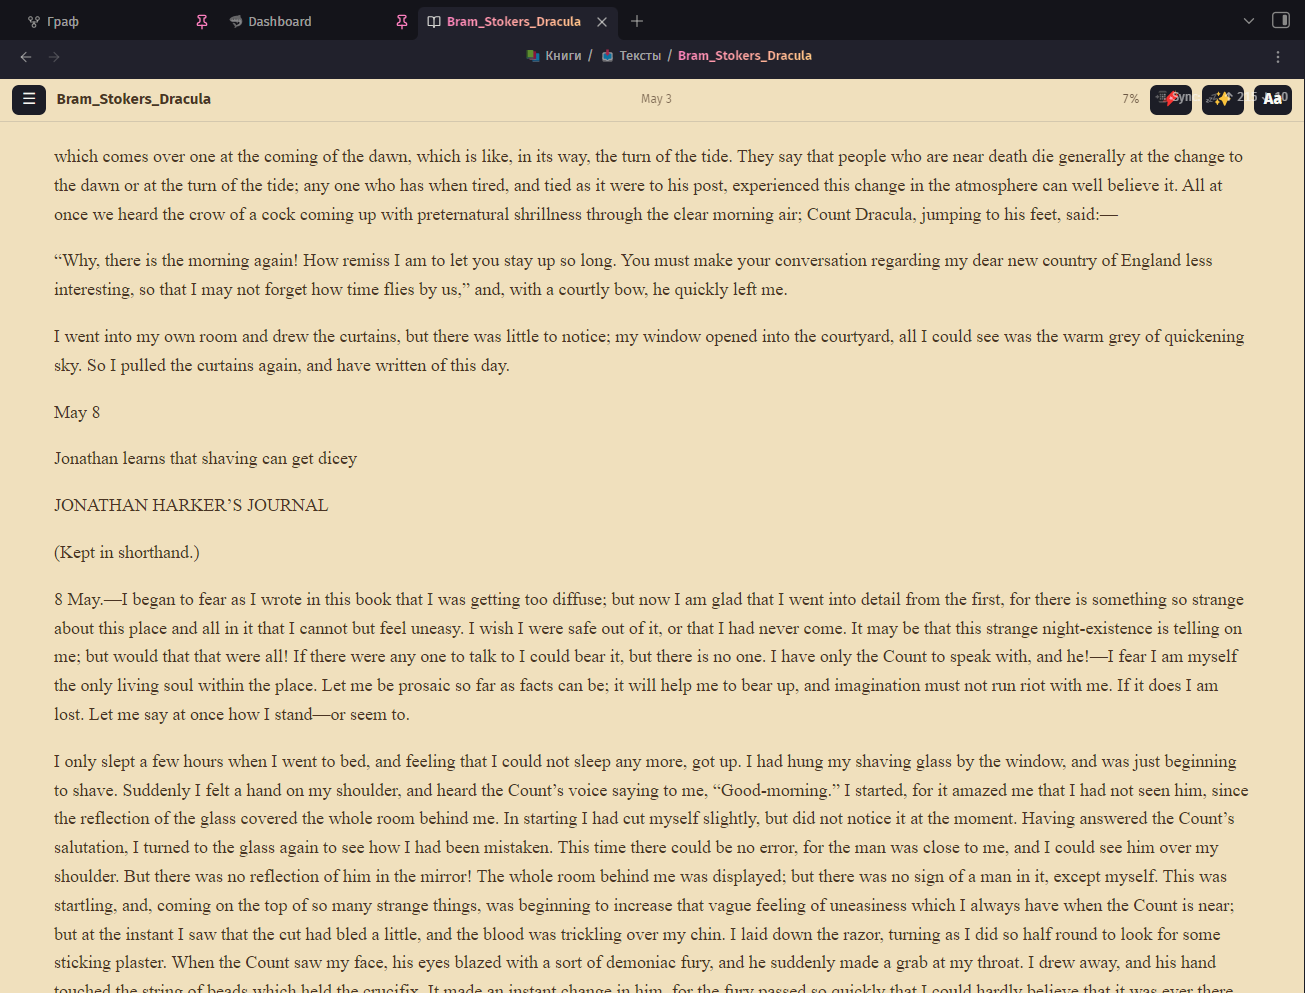
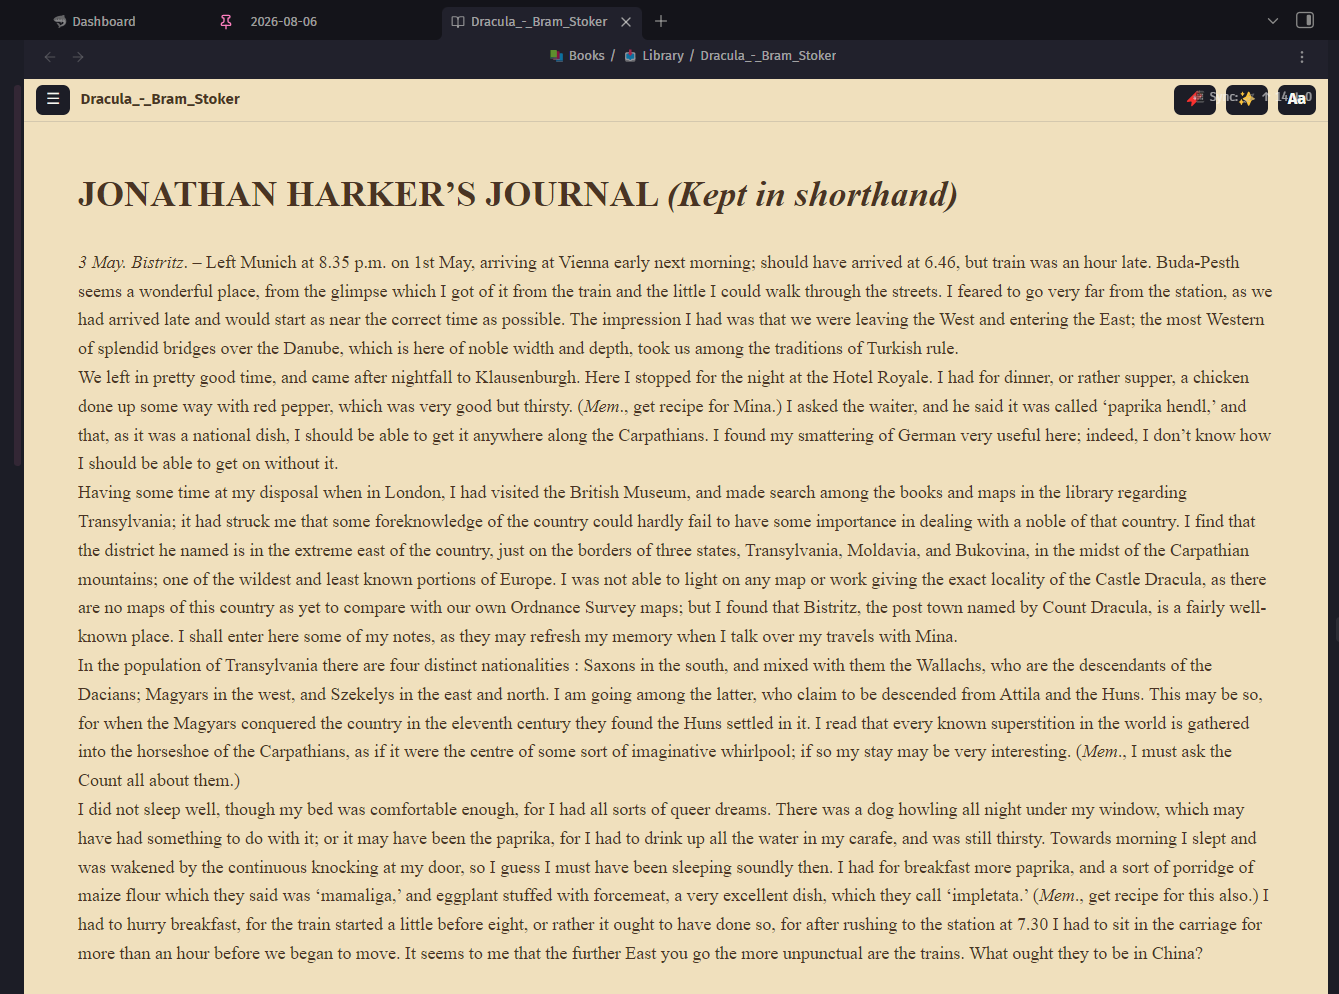
docs: refresh screenshots with the English UI
The hero image and all six gallery shots re-taken with the interface in
English. The dictionary screenshot now uses a public-domain Japanese essay
with clean typography and a correct translation, and the vault's status bar
is out of frame. Dropped the note about the Russian UI - it no longer
applies.

diff --git a/README.md b/README.md
@@ -14,8 +14,6 @@ A beautiful e-book reader for [Obsidian](https://obsidian.md) — *Tome* for sho
 | ![Table of contents with pinned bookmarks](docs/screenshots/toc-bookmarks-search.png)<br>*TOC panel: pinned bookmarks on top, chapter search below* | ![Aa panel](docs/screenshots/aa-panel.png)<br>*Theme, font size, spacing and text color — right in the reader* |
 | ![Gray Fog theme on a tablet](docs/screenshots/gray-fog-tablet.jpg)<br>*Gray Fog theme on a tablet* | ![Aa panel on a tablet](docs/screenshots/aa-panel-tablet.jpg)<br>*Tuned for touch* |
 
-*Screenshots show the Russian UI — English is the default (switch anytime in settings).*
-
 ## Features
 
 ### Reading
